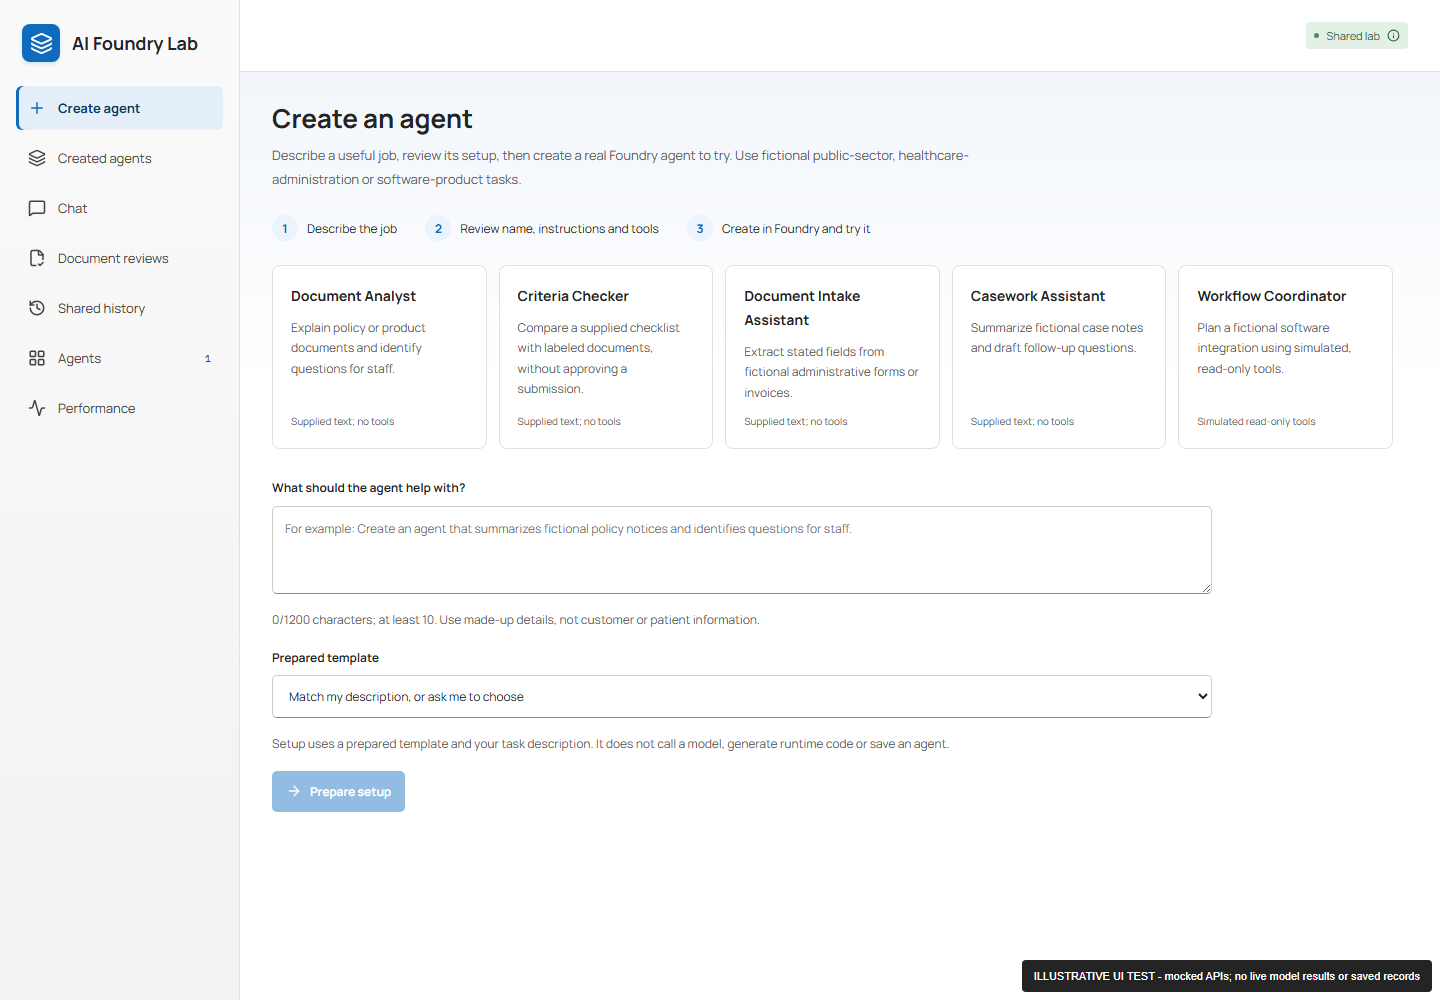
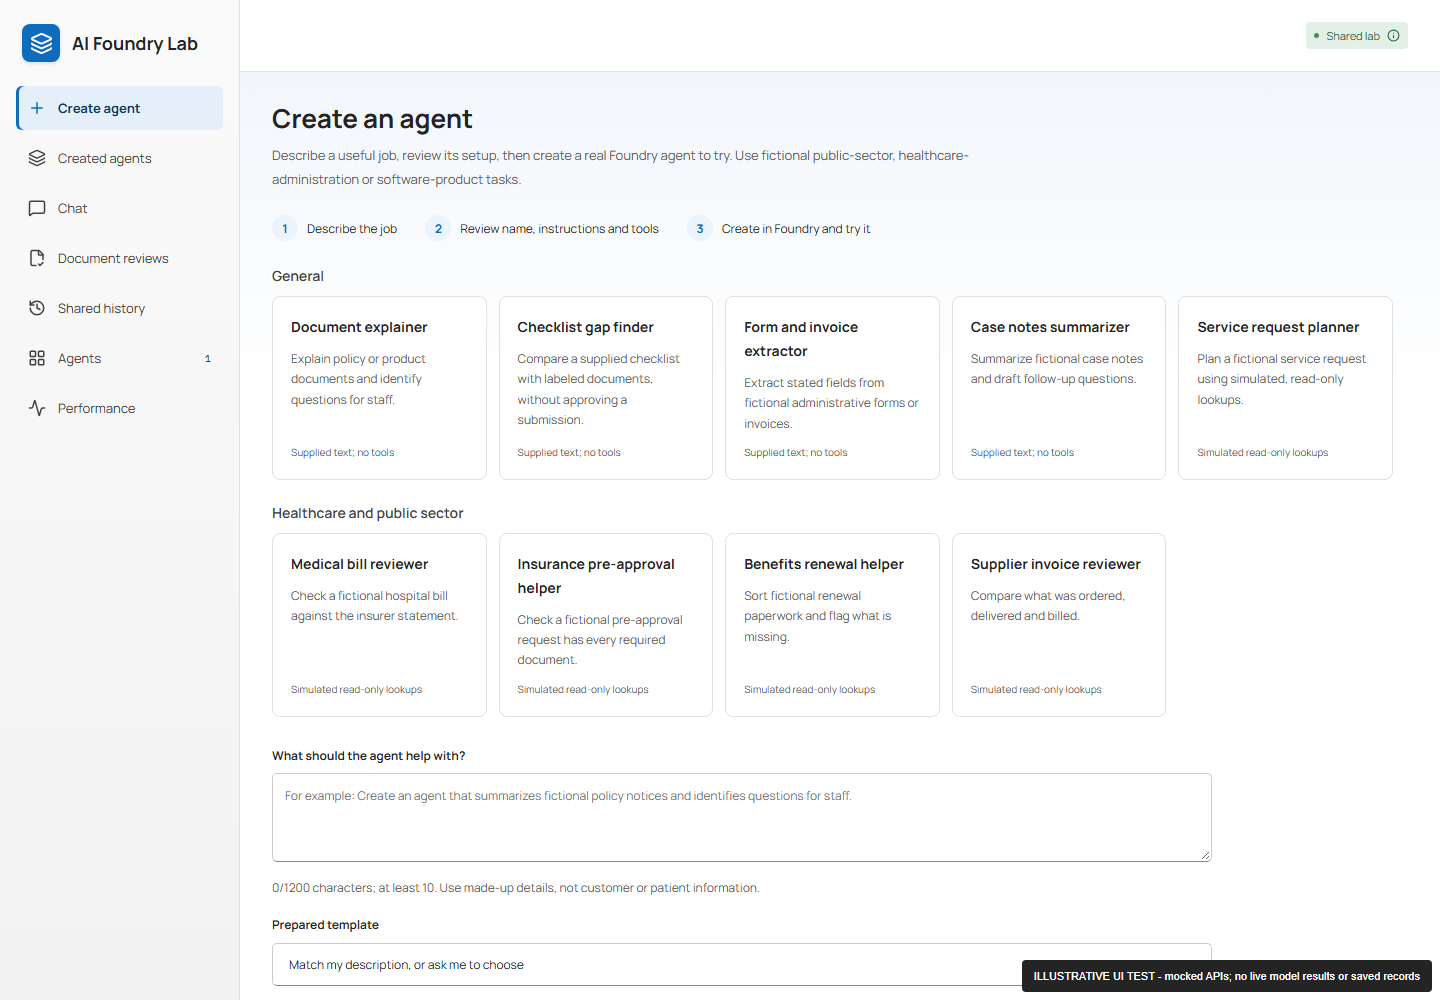
Refresh Create agent screenshot and record live healthcare template check

diff --git a/docs/agent-creation.md b/docs/agent-creation.md
@@ -57,7 +57,7 @@ Each healthcare and public-sector template uses two fixed, simulated,
 read-only lookups (for example, plan benefits and usual prices for the medical
 bill reviewer). The lookup data is made up for the demo.
 
-![Illustrative UI test of the Create agent page with mocked APIs: three numbered steps, template cards in two groups, a job description box, and a Prepare setup button](images/screenshots/lab-create-agent.png)
+![Illustrative UI test of the Create agent page with mocked APIs: three numbered steps, nine template cards in two groups, and a job description box](images/screenshots/lab-create-agent.png)
 
 *Illustrative UI test with mocked APIs; nothing was published.* ·
 [View full size](images/screenshots/lab-create-agent.png)
@@ -302,8 +302,12 @@ offering or an implemented customer solution.
 On 2026-09-23, one private dev environment ran a live check with the pinned SDK.
 Three templates, each on a different model deployment (`gpt-5.4`,
 `gpt-5.4-mini`, and `gpt-4.1`), were published, answered a sample review, and
-were deleted. That shows the flow can work there; it doesn't prove it works in
-another environment, subscription, region, or SDK version.
+were deleted. Later that day, the four healthcare and public-sector templates
+were published the same way. Each called its simulated lookups, the Lab
+verified every tool call, each answer found the main problems planted in its
+fictional sample, and all four agents were deleted. That shows the flow can
+work there; it doesn't prove it works in another environment, subscription,
+region, or SDK version.
 
 ## Related content
 

diff --git a/README.md b/README.md
@@ -14,7 +14,7 @@ can do. Publish a new hosted agent from a reviewed template, chat with it, and
 compare it with prebuilt agents that work as a team. Everything runs privately
 in your Azure subscription with fictional data.
 
-![Illustrative UI test of the Lab's Create agent page with mocked APIs: the sidebar lists all seven pages, and five template cards sit above a job description box and a Prepare setup button](docs/images/screenshots/lab-create-agent.png)
+![Illustrative UI test of the Lab's Create agent page with mocked APIs: the sidebar lists all seven pages, and nine template cards in two groups, General and Healthcare and public sector, sit above a job description box](docs/images/screenshots/lab-create-agent.png)
 
 *The Lab's **Create agent** page. Illustrative UI test with mocked APIs; nothing
 was published.* · [View full size](docs/images/screenshots/lab-create-agent.png) ·
